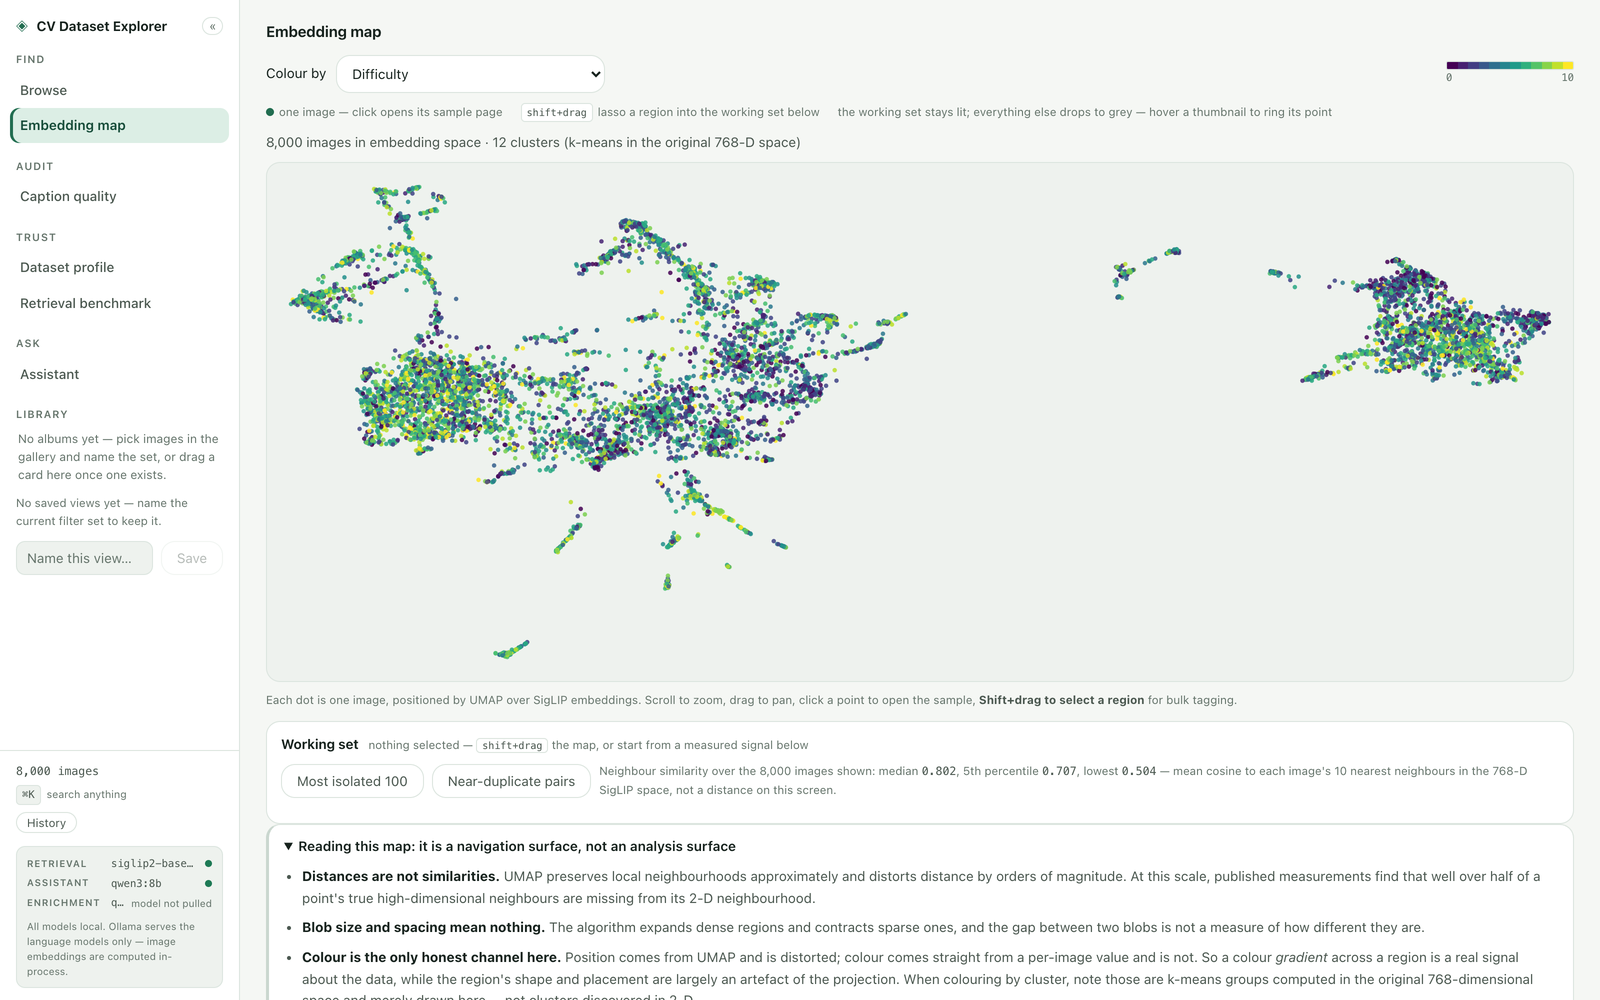
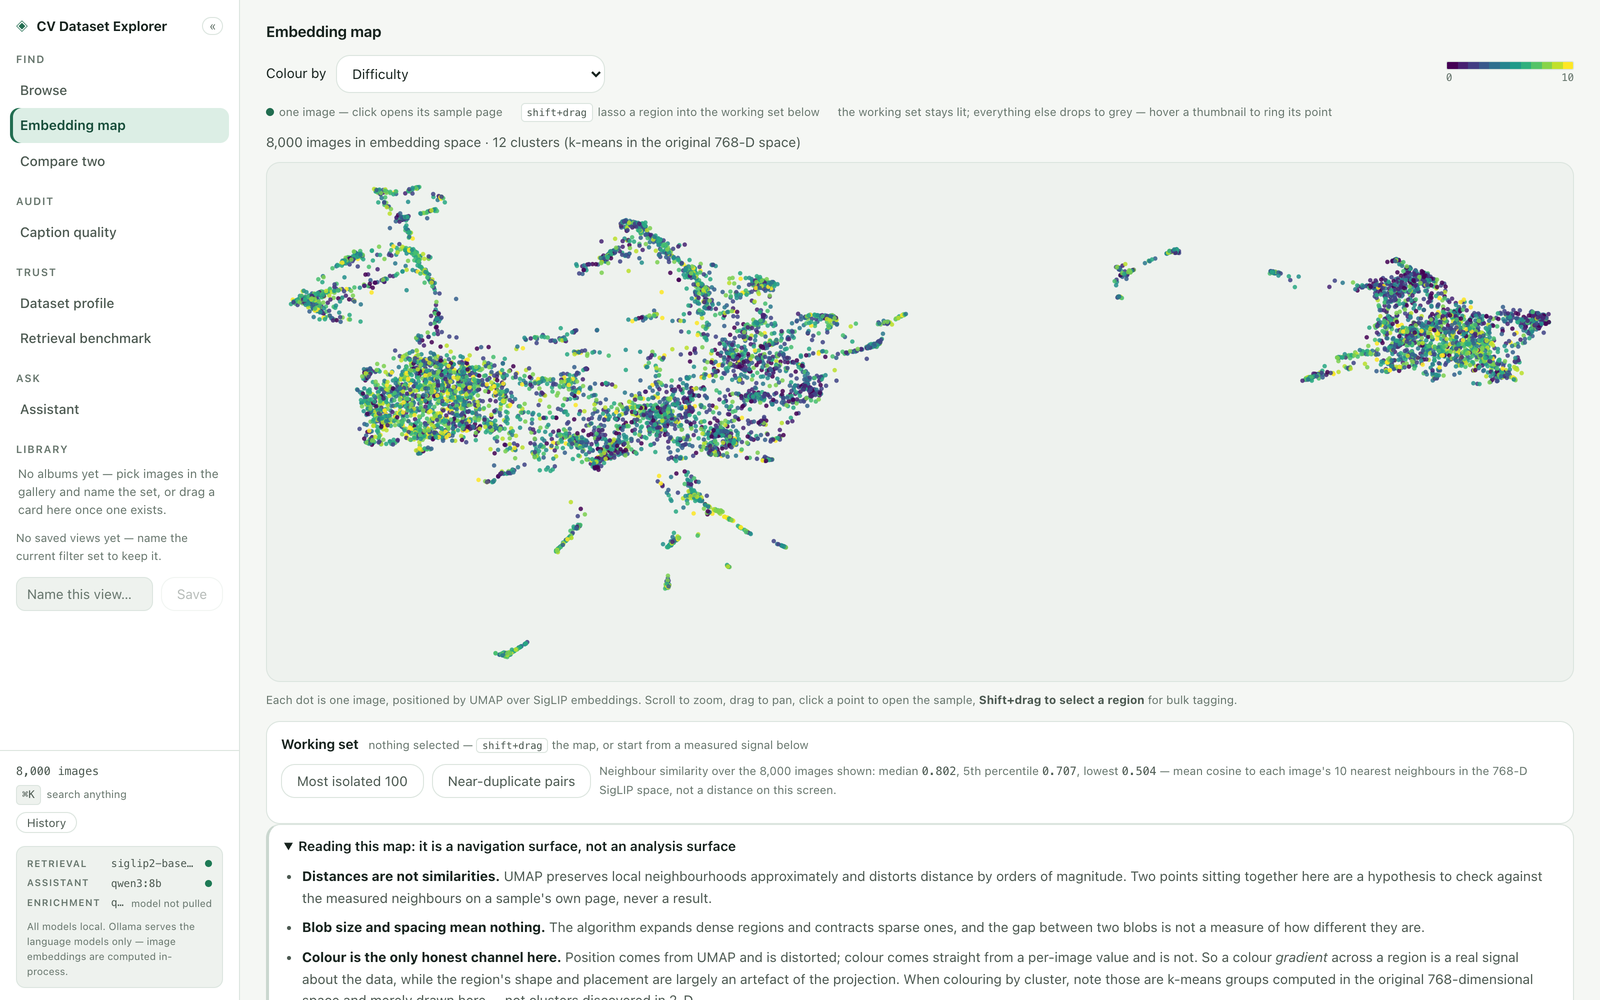
The map figure and its caption describe the same picture
The caption promised cluster colours and a lasso selection. The figure is
captured at the page's default state, which is the Difficulty ramp with an
empty working set — so it showed neither, and a reviewer checking the sentence
against the picture would find it false on both counts.

The caption now names what the figure holds, which is the more useful claim
anyway: the 12 k-means clusters reported as computed in the original 768-D
space rather than in the projection, the two measured entry points beside the
neighbour statistics they come from, and the panel saying what UMAP cannot
tell you.

diff --git a/README.md b/README.md
@@ -107,7 +107,11 @@ percentile ranks over the corpus, each a filter, a badge and a sort key. "The
 
 ### See the corpus shape
 
-![UMAP embedding map with cluster colors and lasso selection](docs/screenshots/5-map.png)
+![UMAP embedding map coloured by difficulty, reporting 12 k-means clusters
+computed in the original 768-D space. The working set opens empty and offers
+two measured entry points — most isolated, near-duplicate pairs — beside the
+neighbour statistics they derive from, above a panel stating what the
+projection cannot tell you](docs/screenshots/5-map.png)
 
 The embedding map projects the corpus (UMAP, ingest-time); lasso a region to
 tag or open it as a gallery slice. Isolated points are coverage-gap
